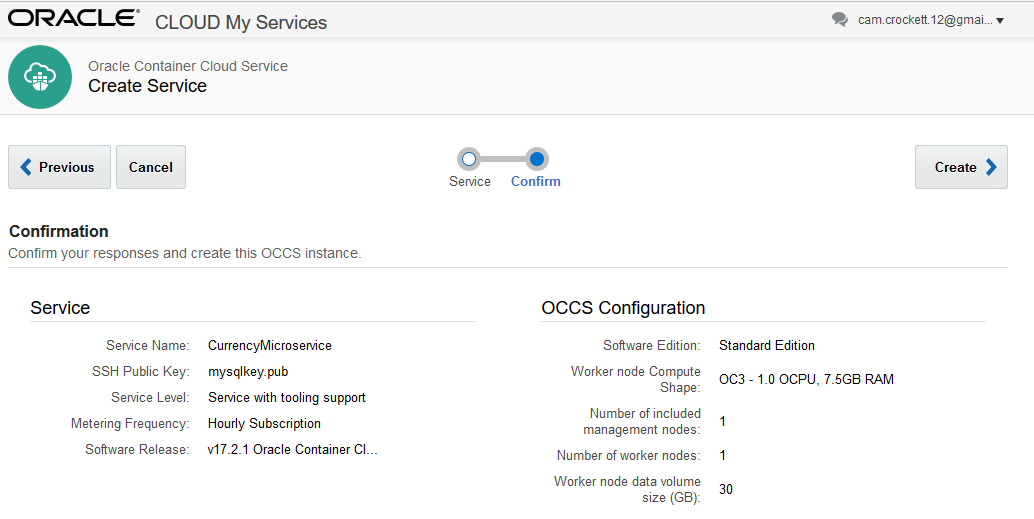
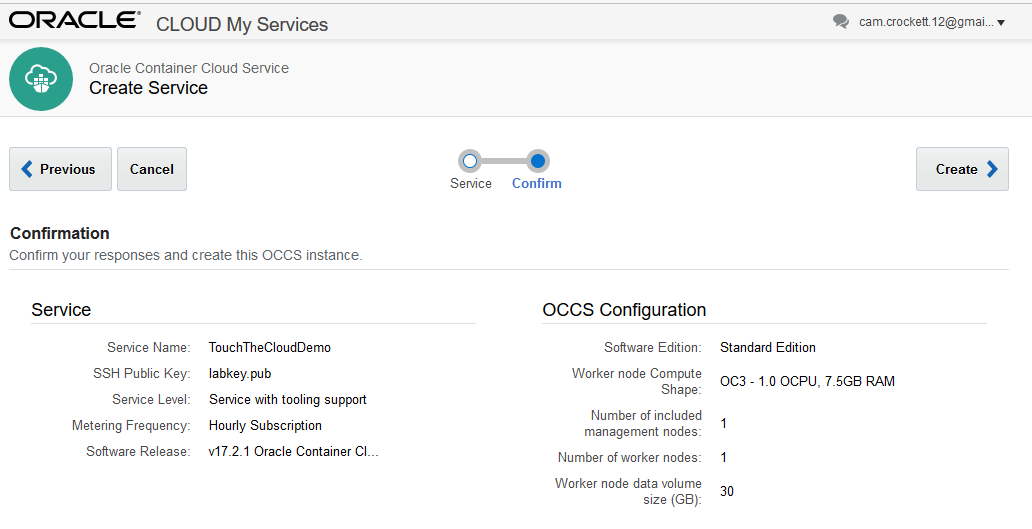
Updating Lab400
Spelling, images, updated port binding step, etc

diff --git a/LabGuide400.md b/LabGuide400.md
@@ -15,14 +15,14 @@ Welcome to lab 400. In this lab we will be completing our application architectu
 
 ## Required Artifacts
 - The following lab requires an Oracle Public Cloud account that will be supplied by your instructor.
-- You will need an ssh key: [labkey](labkey)
+- You will need an ssh key: [labkey](labkey.pub)
 
 ## Optional Artifacts
 
 - The Code Base for Docker Hub Build is located here: [https://github.com/c-rocket/TTC-CurrencyMicroservice](https://github.com/c-rocket/TTC-CurrencyMicroservice)
 - Google's Go Programming Language is described here: [https://golang.org/](https://golang.org/)
-- Docker informaiton can be found here: [https://www.docker.com/](https://www.docker.com/)
-- Oracle's Container Cloud Service is deatiled here: [https://cloud.oracle.com/en_US/container](https://cloud.oracle.com/en_US/container)
+- Docker information can be found here: [https://www.docker.com/](https://www.docker.com/)
+- Oracle's Container Cloud Service is detailed here: [https://cloud.oracle.com/en_US/container](https://cloud.oracle.com/en_US/container)
 
 ## Prerequisites
 
@@ -65,7 +65,7 @@ Welcome to lab 400. In this lab we will be completing our application architectu
 
 ![](images/400/step02.png)
 
-- You will now be on the landing page for Oracl'e Container Cloud Service
+- You will now be on the landing page for Oracle's Container Cloud Service
 
 ![](images/400/step03.png)
 
@@ -76,10 +76,11 @@ Welcome to lab 400. In this lab we will be completing our application architectu
 - Fill in the form and click Next
 
 ```
+
 Service Name: TouchTheCloudDemo
-SSH Public Key:<use labkey found in required artifacts>
+SSH Public Key:<use labkey.pub found in required artifacts>
 Admin Username: admin
-Admin Password: Oracle123
+Admin Password: Oracle123!
 ```
 
 ![](images/400/step05.png)
@@ -88,21 +89,22 @@ Admin Password: Oracle123
 
 ![](images/400/step06.png)
 
-- Wait for a few minutes while your host provisions
+- Wait for a few minutes while your host provisions (approx 10 minutes to setup your host)
 
 ![](images/400/step07.png)
 
 ### **STEP 3**: Create a new container service
 
-- Once your Container Service instance is provisioned, click on the menu to open the Container Console
+- Once your Container Service instance is provisioned, click on the menu to open the Container Console (you may have to add a browser security exception)
 
 ![](images/400/step09.png)
 
 - Use the admin username and password you setup in the instance configuration to login
 
 ```
+
 Username: admin
-Password: Oracle123
+Password: Oracle123!
 ```
 
 ![](images/400/step10.png)
@@ -124,6 +126,7 @@ Password: Oracle123
 
 
 ```
+
 Service Name: Currency Microservice
 Image: camcrockett/ttc-currencymicroservice
 
@@ -131,7 +134,16 @@ Image: camcrockett/ttc-currencymicroservice
 
 ![](images/400/step14.png)
 
-- Select Ports from the Available Options and Add a new TCP port mapping for port 8089 and Save
+- Select Ports from the Available Options and Add a new port mapping
+
+```
+
+Host Port: 80
+Container Port: 8089
+Protocol: TCP
+```
+
+
 
 ![](images/400/step15.png)
 
@@ -158,7 +170,7 @@ Image: camcrockett/ttc-currencymicroservice
 
 ![](images/400/step19.png)
 
-- Once sucessfully deployed the status should update
+- Once successfully deployed the status should update
 
 ![](images/400/step20.png)
 
@@ -176,7 +188,9 @@ Image: camcrockett/ttc-currencymicroservice
 - To Verify the microservice, open a new web browser tab and use the public IP to hit the following URL:
 
 ```
-http://<Public_IP>:8089/currencies/v1/usd
+
+http://<Public_IP>/currencies/v1/usd
+ex: http://129.144.154.28/currencies/v1/usd
 ```
 
 ![](images/400/step23.png)
@@ -191,7 +205,7 @@ http://<Public_IP>:8089/currencies/v1/usd
 
 ![](images/200/step21.png)
 
-- From the applicaiton dashbaord step into your Ui application
+- From the application dashboard step into your UI application
 
 ![](images/200/step23.png)
 
@@ -202,9 +216,10 @@ http://<Public_IP>:8089/currencies/v1/usd
 - Add a new environment variable
 
 ```
+
 Name: CURRENCY_MICROSERVICE_URL
 Value: <Currency Microservice URL>
-ex: http://129.144.158.167:8089/currencies/v1/usd
+ex: http://129.144.154.28/currencies/v1/usd
 ```
 
 ![](images/400/step25.png)
@@ -213,9 +228,9 @@ ex: http://129.144.158.167:8089/currencies/v1/usd
 
 ![](images/400/step26.png)
 
-- Once the Applicaiton is recreated, open the URL to see the new bdinging in action.
+- Once the Application is recreated, open the URL to see the new binding in action.
 
 ![](images/400/step29.png)
 
-**Lab 400 is now Complete**
+**Lab 400 is now complete**
 

diff --git a/LabGuide300.md b/LabGuide300.md
@@ -134,8 +134,8 @@ Default Value: <Public IP of MySQL DB>
 ```shell
 
 cd src/main/resources/db/setup
-sudo -su scp -i mysqlkey -o StrictHostKeyChecking=no mysql_setup.sql opc@${MYSQL_IP}:/tmp/mysql_setup.sql
-sudo -su ssh -i mysqlkey -o StrictHostKeyChecking=no opc@${MYSQL_IP} sudo su - oracle -c 'mysql "catalog" < "/tmp/mysql_setup.sql"'
+scp -i mysqlkey -o StrictHostKeyChecking=no mysql_setup.sql opc@${MYSQL_IP}:/tmp/mysql_setup.sql
+ssh -i mysqlkey -o StrictHostKeyChecking=no opc@${MYSQL_IP} sudo su - oracle -c 'mysql "catalog" < "/tmp/mysql_setup.sql"'
 ```
 
 ![](images/300/step17.png)
@@ -179,7 +179,7 @@ Password: Oracle123!
 
 - Apply and Edit the changes to the MySQLMicroserviceDeploy application
 
-![](images/200/step26.png)
+![](images/300/step28.png)
 
 - Once redeployment has finished you will see the service binding in the deployment details
 
@@ -194,6 +194,11 @@ Password: Oracle123!
 ![](images/300/step25.png)
 
 - Open the URL for the MySQLMicroserviceDeploy Application and append "/catalog/v1" to see the JSON data now available
+
+```
+
+ex: https://mysqlmicroservicedeploy-a458023.apaas.us6.oraclecloud.com/catalog/v1
+```
 
 ![](images/300/step26.png)
 
